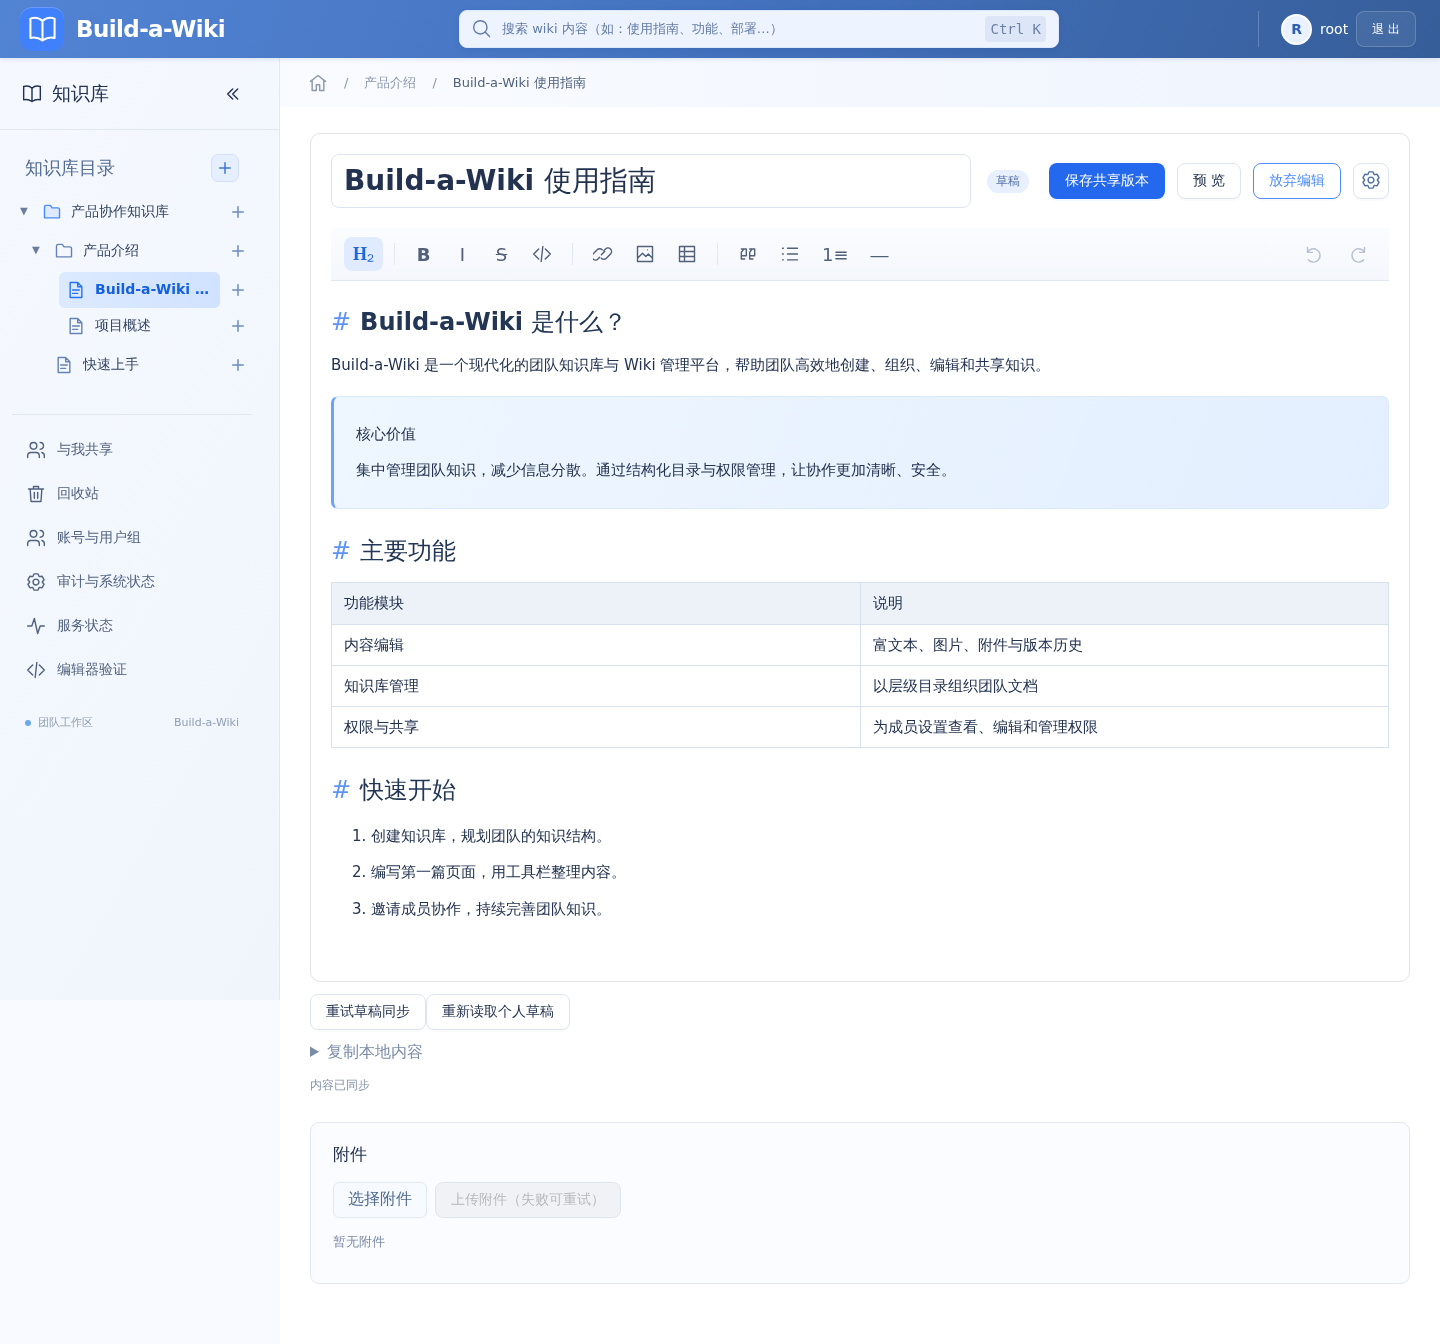
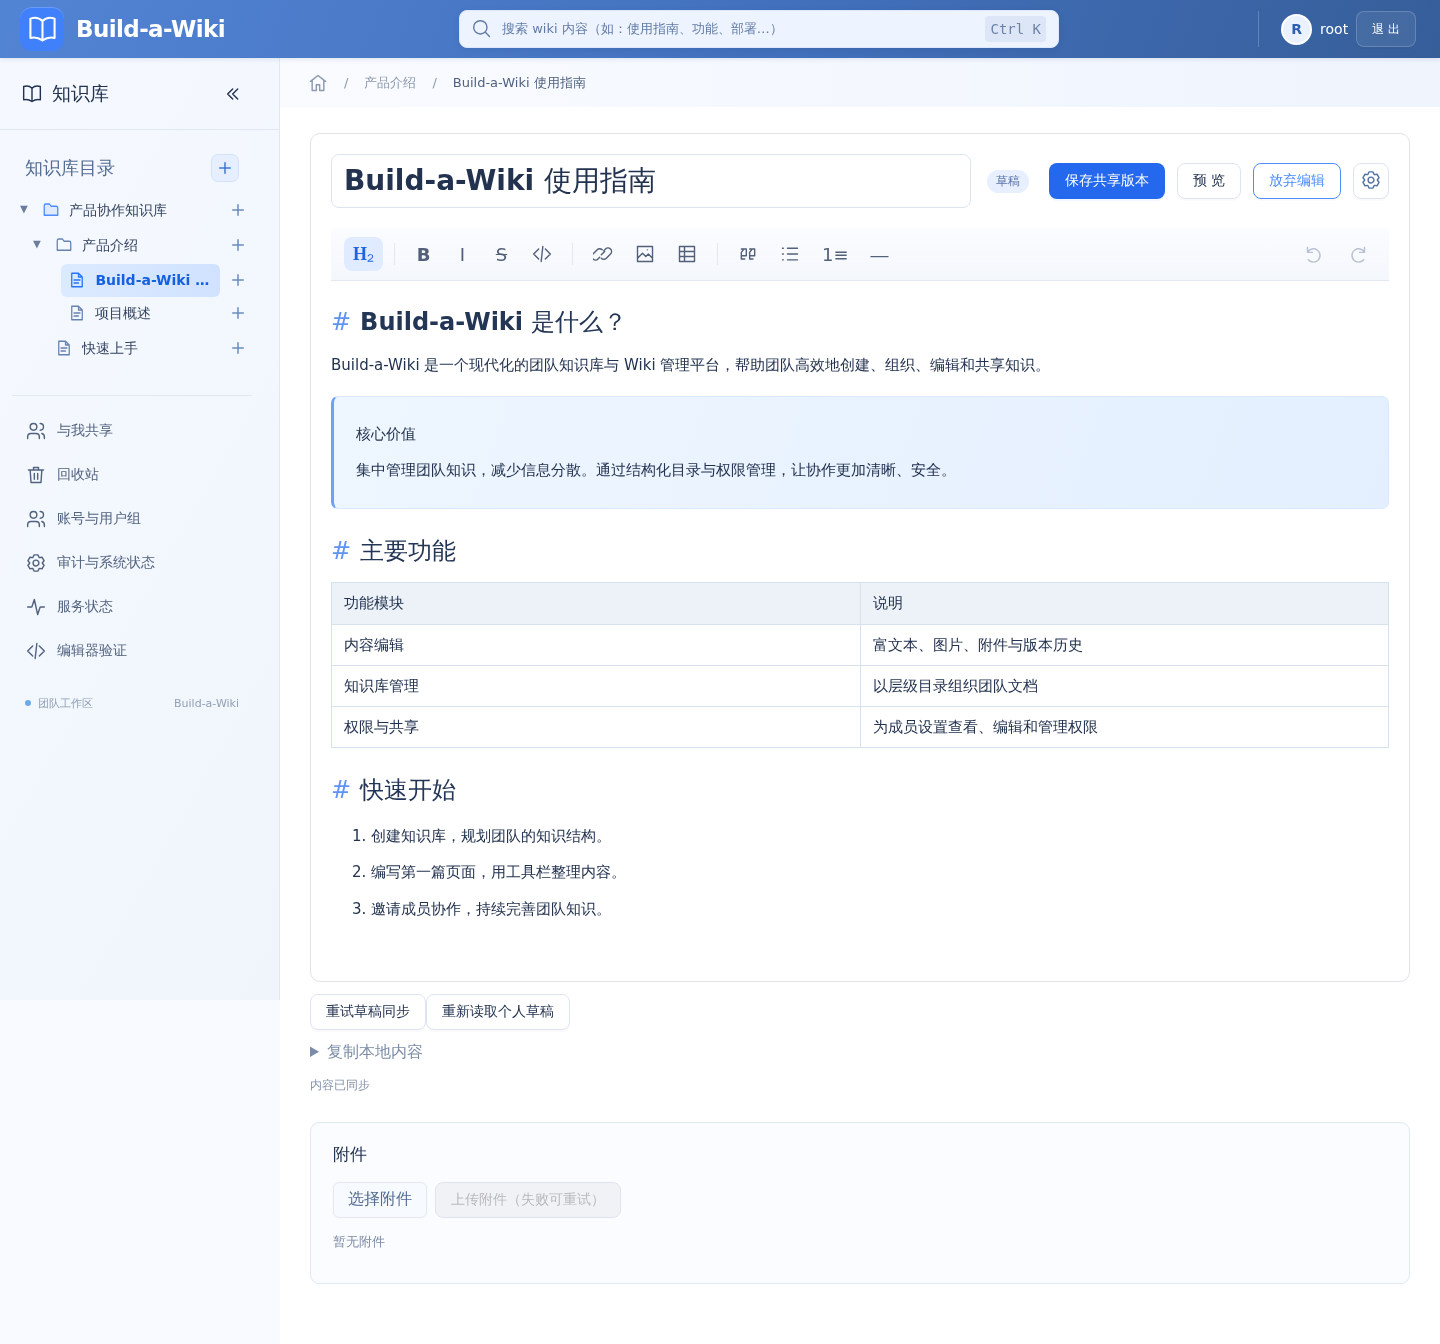
style(ui): compact directory rows and increase nesting indent

Changed region(s): [[0.0, 0.3125, 0.125, 0.5625], [0.0312, 0.1562, 0.1562, 0.2812]]

diff --git a/frontend/src/style.css b/frontend/src/style.css
@@ -1604,3 +1604,42 @@ summary:focus-visible {
   max-width: 100%;
   flex-shrink: 1;
 }
+
+.sidebar .library-tree {
+  --directory-row-scale: 0.9;
+  --directory-indent-scale: 1.1;
+  --directory-base-row-height: 36px;
+  --directory-base-vertical-padding: 8px;
+  --directory-base-list-gap: 3px;
+  --directory-base-indent: 12px;
+  --directory-line-height: 18px;
+  --directory-icon-size: 18px;
+}
+.sidebar .library-tree-row,
+.sidebar .page-tree-row {
+  height: calc(var(--directory-base-row-height) * var(--directory-row-scale));
+}
+.sidebar .library-tree-row > a,
+.sidebar .page-tree-row > a {
+  height: 100%;
+  padding-top: calc(
+    var(--directory-base-vertical-padding) * var(--directory-row-scale)
+  );
+  padding-bottom: calc(
+    var(--directory-base-vertical-padding) * var(--directory-row-scale)
+  );
+  line-height: var(--directory-line-height);
+}
+.sidebar .library-tree-row > a > svg,
+.sidebar .page-tree-row > a > svg {
+  width: var(--directory-icon-size);
+  height: var(--directory-icon-size);
+}
+.sidebar .library-tree .page-tree {
+  margin-block: calc(
+    var(--directory-base-list-gap) * var(--directory-row-scale)
+  );
+  padding-left: calc(
+    var(--directory-base-indent) * var(--directory-indent-scale)
+  );
+}

diff --git a/docs/UI_REDESIGN.md b/docs/UI_REDESIGN.md
@@ -177,3 +177,9 @@ docker compose --env-file .data/compose-test.env -p wiki-acceptance \
 标题、编辑/保存按钮、设置入口和正文统一包裹在浅灰细边框面板内，桌面内边距 20px、手机 14px，标题与正文留出间隔；正文取消重复轮廓，窄屏操作按钮在面板内换行。正文为空或仅包含空白文字时，居中显示浅灰斜体“空空如也”；允许中文字体合成斜体，提示不阻挡点击，也不进入保存内容。图片、表格和分隔线视为有效内容。新增文案与结构类型采用常量，样式尺寸/色彩使用 CSS 自定义属性。
 
 内容与正常/减少动效回归通过；UI 回归覆盖边框、输入/清空、预览、保存后正文无占位文本，并更新桌面/平板/手机及空正文截图，最终 UI 回归通过（23.8 秒）。生产构建通过，本地镜像 `0cbb8c7bdad3`，无新增依赖。
+
+## 目录行距与层级缩进
+
+侧栏知识库和页面条目高度由 36px 调整为 32.4px（90%），上下内边距由 8px 调整为 7.2px，列表上下间隔由 3px 调整为 2.7px；层级缩进由 12px 调整为 13.2px（110%）。文件/文件夹图标同步调整为 18px，文字保持 14px，展开和创建按钮保持居中。比例与基准尺寸统一使用 CSS 自定义属性，仅作用于侧栏目录。
+
+生产构建、目录滚动稳定性及响应式 UI 两项浏览器回归通过（24.9 秒），桌面/平板/手机截图已更新，本地镜像 `fa4b3c9e6841`，无新增依赖。

diff --git a/docs/CHECKLIST.md b/docs/CHECKLIST.md
@@ -125,3 +125,4 @@ A组任务已完成并记录校验小结。复现命令和结果详见 VALIDATIO
 | 顶栏与目录宽度调节 | ✔ | 顶栏 58px 并调浅蓝色；新增可拖动/键盘操作分割线，目录宽度限制为视口 10%～45%，导航与折叠保留比例；数值使用具名常量，六项浏览器回归与生产构建通过，无新增依赖。 |
 | 目录名称重复点击收起 | ✔ | 修复标题只有导航没有折叠处理的问题；首次选择导航展开，重复点击当前知识库/父页面切换展开状态；支持 Enter，四项浏览器回归与生产构建通过，无新增依赖。 |
 | 文档边框与空正文 | ✔ | 标题、操作入口及正文共用浅灰边框，适配内边距与窄屏换行；空正文居中显示浅灰斜体“空空如也”，不写入正文；内容、动效与 UI 回归及生产构建通过，无新增依赖。 |
+| 目录密度与缩进 | ✔ | 条目高度、上下内边距与列表间距缩至 90%，层级缩进增至 110%；比例与基准值使用 CSS 常量，构建及两项浏览器回归通过，截图与本地前端已更新，无新增依赖。 |
